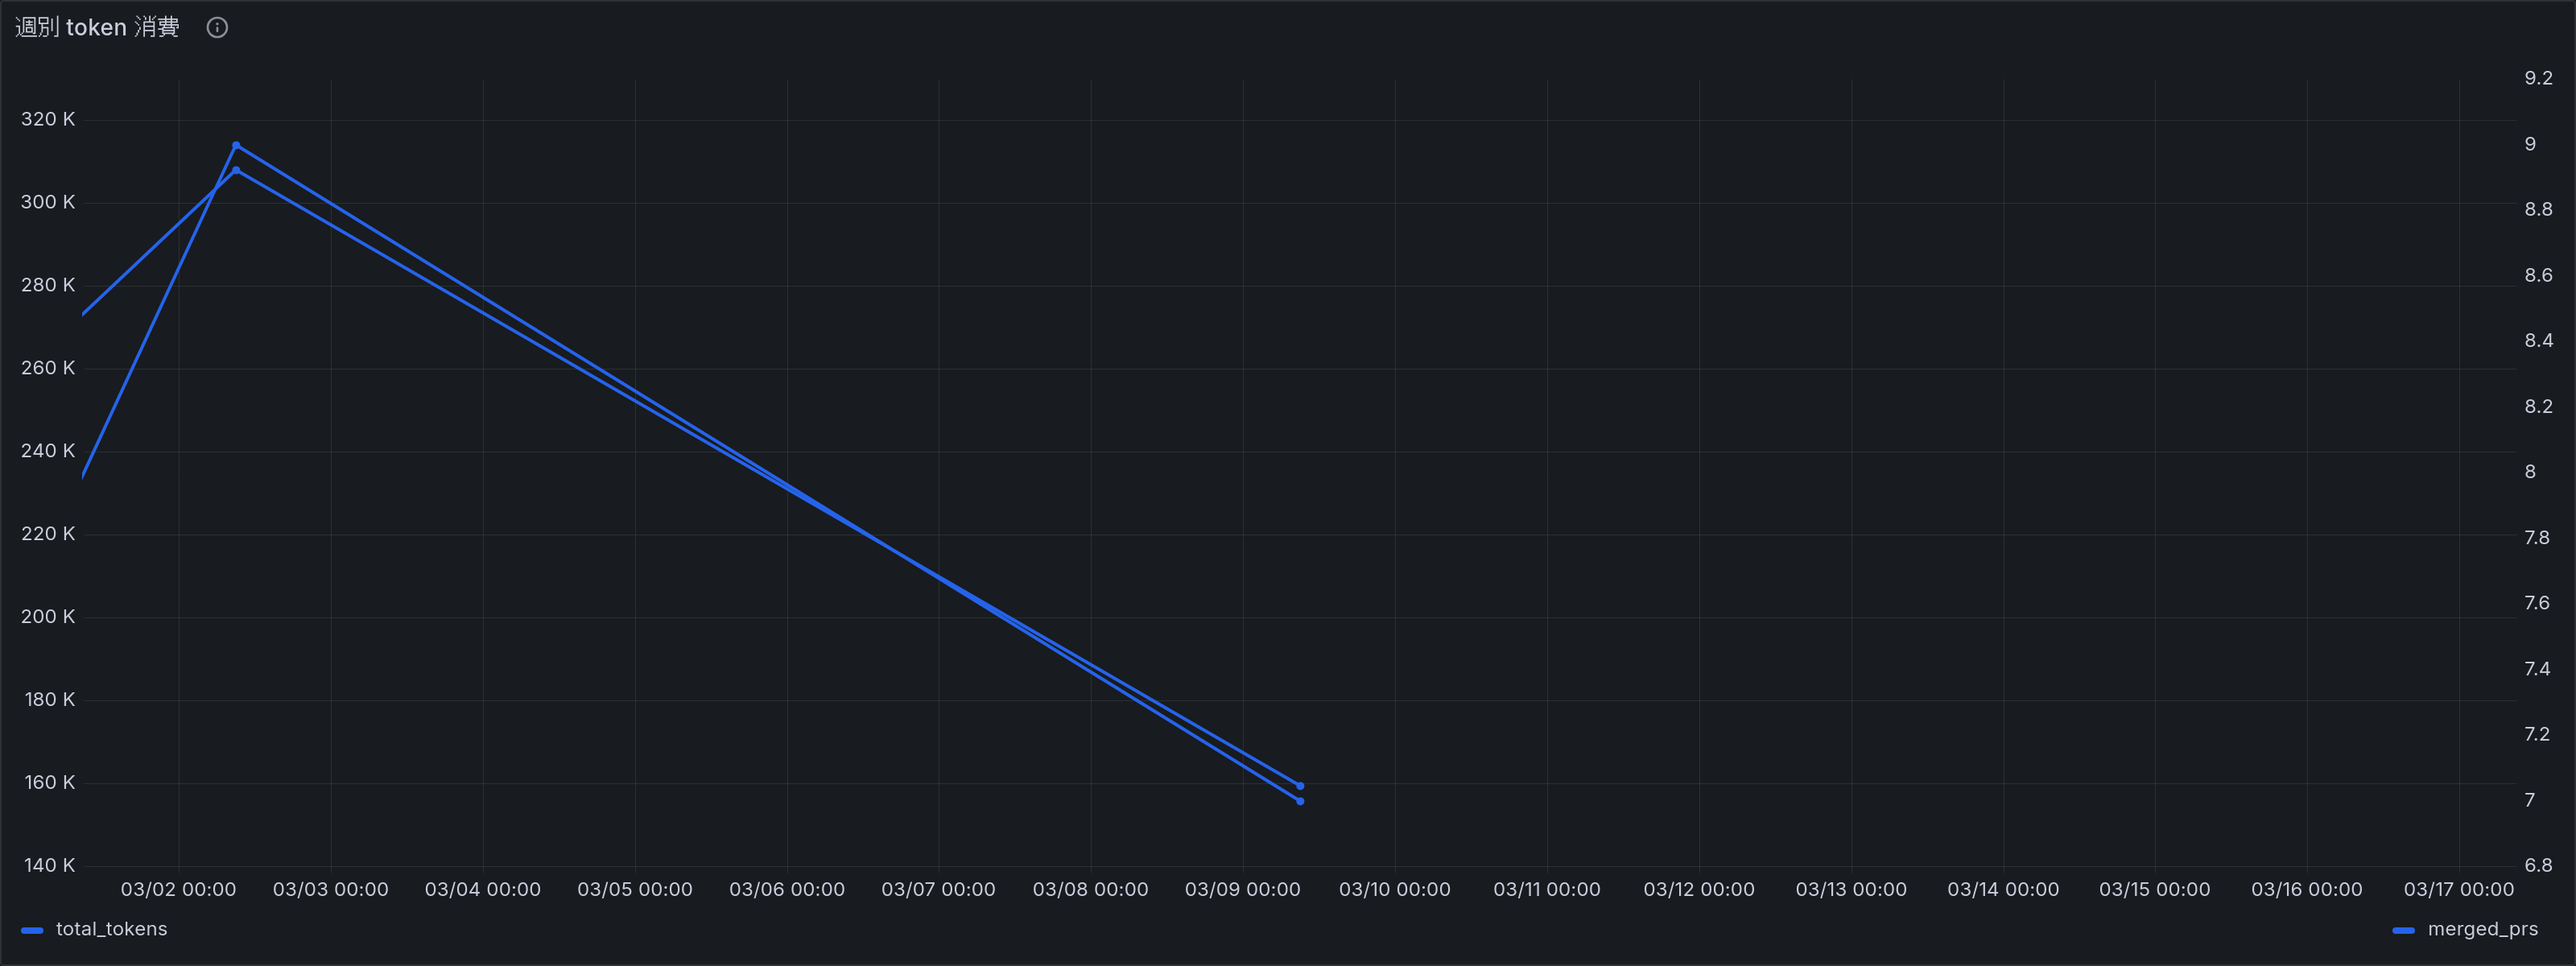
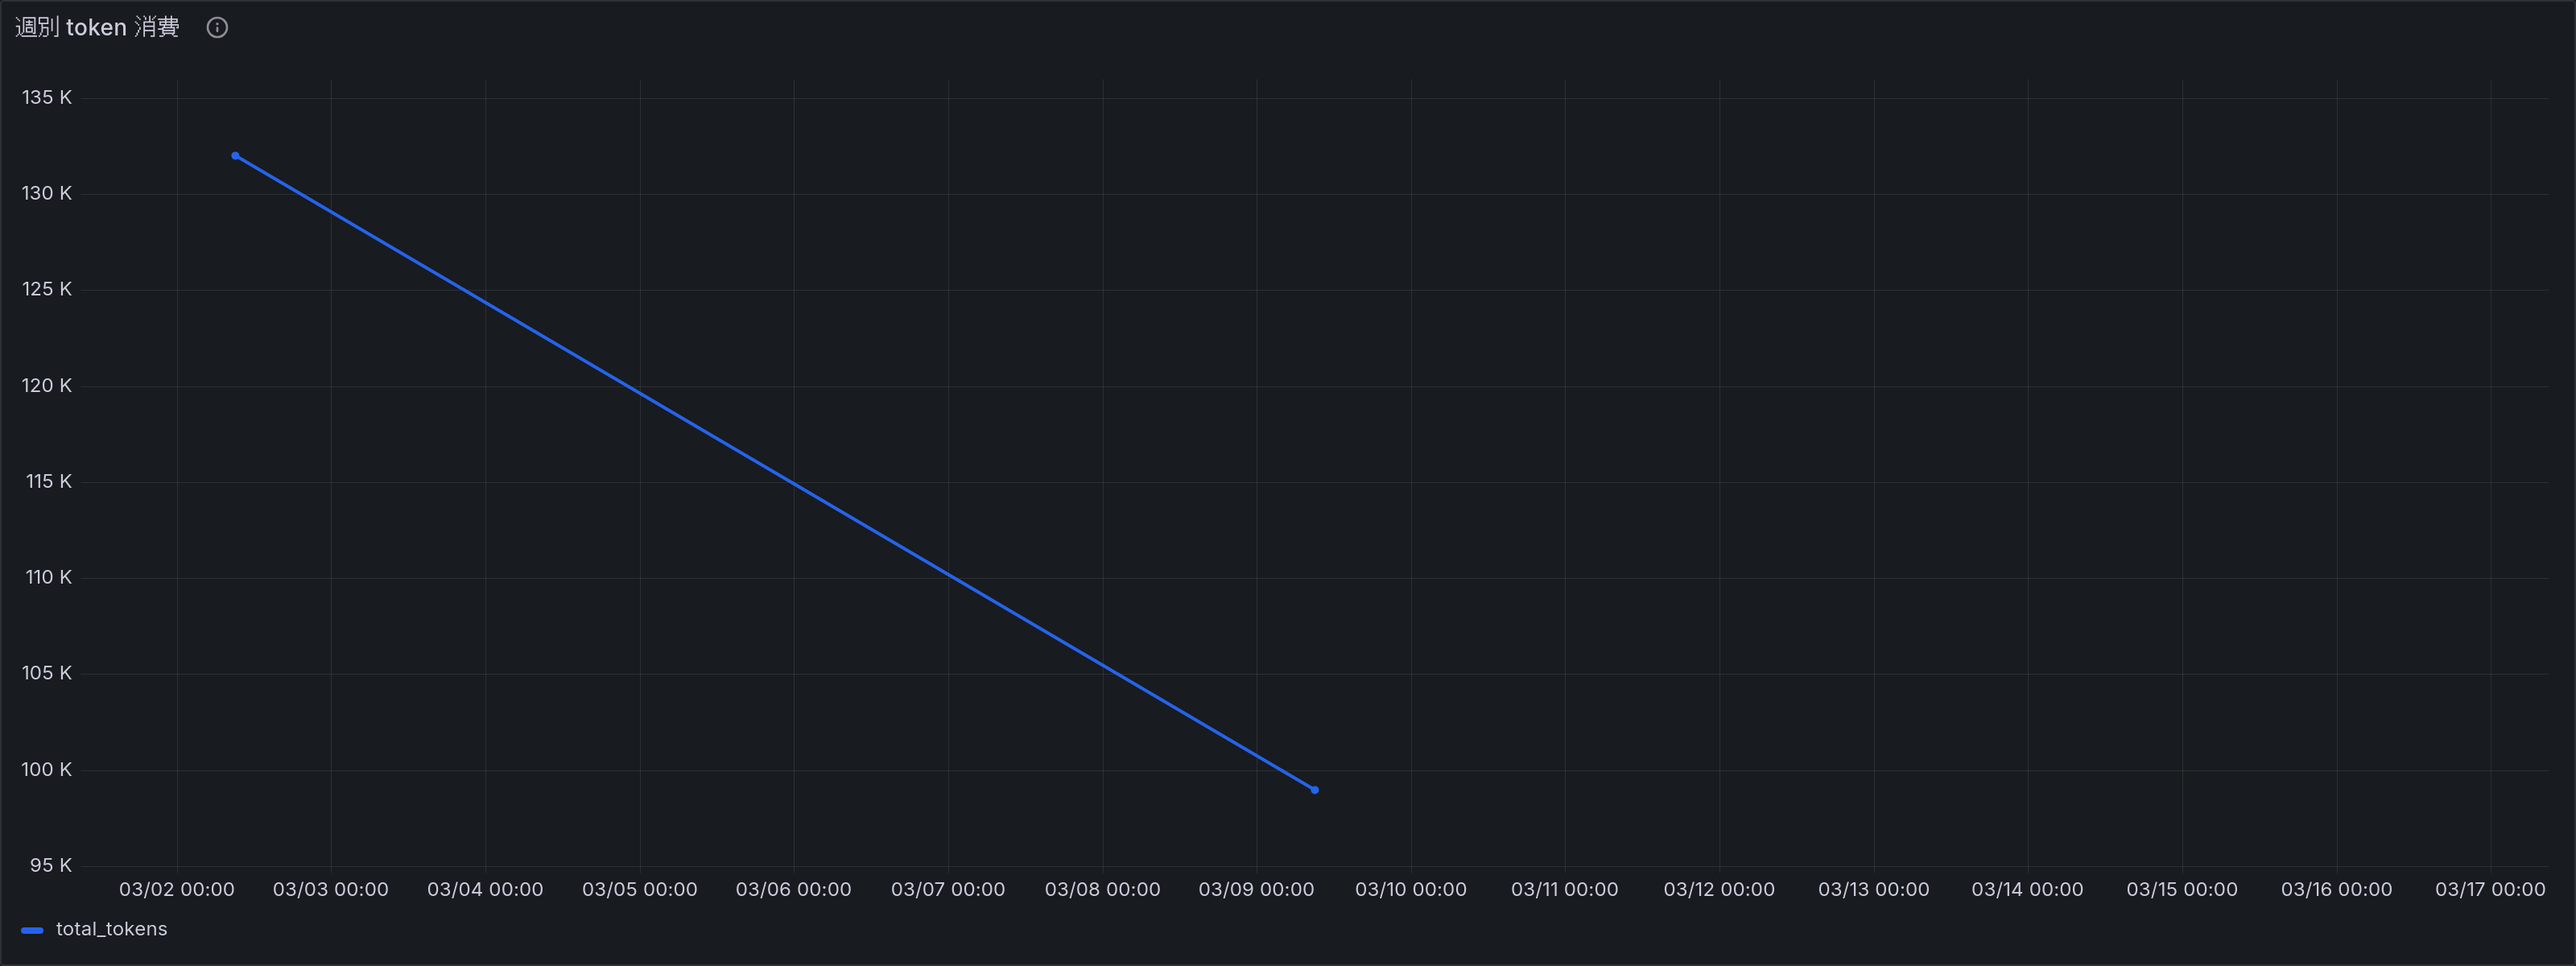
feat(dashboard): 状態評価と改善のきっかけを 2 領域に分離
intent(dashboard): 開発生産性の状態評価と改善アクションのきっかけを別領域として表示できる水準に引き上げたい
decision(dashboard-layout): 完全別ダッシュボード化ではなく単一ダッシュボード内 2 行で分離 — 「状態が悪い → 原因を見る」動線の遷移コストを避けるため、ステークホルダー別需要が顕在化したら別ダッシュボードへ昇格可
rejected(state-metrics): PR 単位の効率指標 (tokens_per_tool_use, pr_per_million_tokens) を状態評価に置く案 — PR の複雑度が平準化されておらず比較に値しない、PR 単位指標は外れ値検出（改善のきっかけ）の用途に限定
decision(state-metrics): 状態評価は PR 非依存・期間集計のみ採用 — 活動量（sessions/concurrent）、スループット（merged PR 数）、コスト（total tokens）、期間集計効率（PR/1M tokens, tokens/session）、質（changes_requested 率, ask_user_question/session, avg sessions/PR）の推移
decision(merged-at-source): merge 時刻として PR に紐づくセッション群の最後の ended_at を近似値として採用 — 推移読みなら数日のずれは結論を変えない、追加実装ゼロで成立
rejected(merged-at-source): sessions.merged_at 列を新設し GitHub API から backfill する案 — 状態評価のトレンド読み用途では過剰、必要性が顕在化したら後追い可
decision(weekly-aggregation): 週別集計 view (pr_merged_at_approx, weekly_pr_metrics, weekly_session_metrics) を schema 側に追加 — dashboard 側 SQL の単純化と再利用性確保のため
constraint(grafana-screenshot): screenshot.sh が panel ID を直接参照しているため、新規パネル (id=20,21,22,23) 追加時は同ファイルへの追記が必須

diff --git a/internal/syncdb/schema.go b/internal/syncdb/schema.go
@@ -1,6 +1,9 @@
 package syncdb
 
 const createTablesSQL = `
+DROP VIEW IF EXISTS weekly_session_metrics;
+DROP VIEW IF EXISTS weekly_pr_metrics;
+DROP VIEW IF EXISTS pr_merged_at_approx;
 DROP VIEW IF EXISTS pr_metrics;
 DROP VIEW IF EXISTS session_concurrency_weekly;
 DROP VIEW IF EXISTS session_concurrency_daily;
@@ -124,4 +127,47 @@ FROM (
       AND s.repo NOT IN ('ishii1648/dotfiles')
     GROUP BY s.pr_url
 ) pm;
+
+-- merge 時刻が schema に無いため、PR に紐づくセッション群の最後の ended_at を近似値として使う
+CREATE VIEW pr_merged_at_approx AS
+SELECT
+    pr_url,
+    MAX(ended_at) AS merged_at_approx
+FROM sessions
+WHERE pr_url != ''
+  AND is_merged = 1
+  AND is_subagent = 0
+  AND ended_at != ''
+  AND repo NOT IN ('ishii1648/dotfiles')
+GROUP BY pr_url;
+
+CREATE VIEW weekly_pr_metrics AS
+SELECT
+    date(p.merged_at_approx, 'weekday 0', '-6 days') AS week_start,
+    COUNT(DISTINCT p.pr_url) AS merged_pr_count,
+    ROUND(AVG(pm.session_count), 2) AS avg_sessions_per_pr,
+    SUM(CASE WHEN pm.changes_requested > 0 THEN 1 ELSE 0 END) AS prs_with_changes_requested,
+    ROUND(SUM(CASE WHEN pm.changes_requested > 0 THEN 1.0 ELSE 0 END) / COUNT(DISTINCT p.pr_url), 3) AS changes_requested_rate
+FROM pr_merged_at_approx p
+JOIN pr_metrics pm ON pm.pr_url = p.pr_url
+GROUP BY date(p.merged_at_approx, 'weekday 0', '-6 days');
+
+CREATE VIEW weekly_session_metrics AS
+SELECT
+    date(s.timestamp, 'weekday 0', '-6 days') AS week_start,
+    COUNT(DISTINCT s.session_id) AS session_count,
+    COALESCE(SUM(ts.input_tokens + ts.output_tokens + ts.cache_write_tokens + ts.cache_read_tokens), 0) AS total_tokens,
+    CASE WHEN COUNT(DISTINCT s.session_id) > 0
+         THEN ROUND(SUM(ts.input_tokens + ts.output_tokens + ts.cache_write_tokens + ts.cache_read_tokens) * 1.0 / COUNT(DISTINCT s.session_id), 1)
+         ELSE 0 END AS tokens_per_session,
+    CASE WHEN COUNT(DISTINCT s.session_id) > 0
+         THEN ROUND(SUM(ts.ask_user_question) * 1.0 / COUNT(DISTINCT s.session_id), 2)
+         ELSE 0 END AS ask_user_question_per_session
+FROM sessions s
+LEFT JOIN transcript_stats ts ON s.session_id = ts.session_id
+WHERE s.is_subagent = 0
+  AND COALESCE(ts.is_ghost, 0) = 0
+  AND s.repo NOT IN ('ishii1648/dotfiles')
+  AND s.timestamp != ''
+GROUP BY date(s.timestamp, 'weekday 0', '-6 days');
 `
